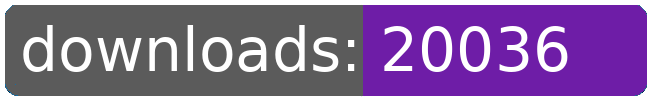
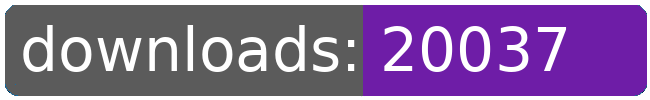
dl log written

Changed region(s): [[0.8, 0.24, 0.8923, 0.72]]

diff --git a/README.md b/README.md
@@ -21,8 +21,8 @@
 		<td>1405</td>
 		<td>1430</td>
 		<td>1457</td>
-		<td>1460</td>
-		<td>+ 3</td>
+		<td>1461</td>
+		<td>+ 4</td>
 	</tr>
 	<tr>
 		<td>aberrant.kahet.outfitter</td>
@@ -252,8 +252,8 @@
 		<td></td>
 		<td></td>
 		<td></td>
-		<td>20036</td>
-		<td>21</td>
+		<td>20037</td>
+		<td>22</td>
 	</tr>
 </table>
 </sub></sup>
@@ -311,8 +311,8 @@
 		<td>1405</td>
 		<td>1430</td>
 		<td>1457</td>
-		<td>1460</td>
-		<td>+ 3</td>
+		<td>1461</td>
+		<td>+ 4</td>
 	</tr>
 	<tr>
 		<td>purchase.bactrian</td>
@@ -509,8 +509,8 @@
 		<td></td>
 		<td></td>
 		<td></td>
-		<td>20036</td>
-		<td>21</td>
+		<td>20037</td>
+		<td>22</td>
 	</tr>
 </table>
 </sub></sup>
